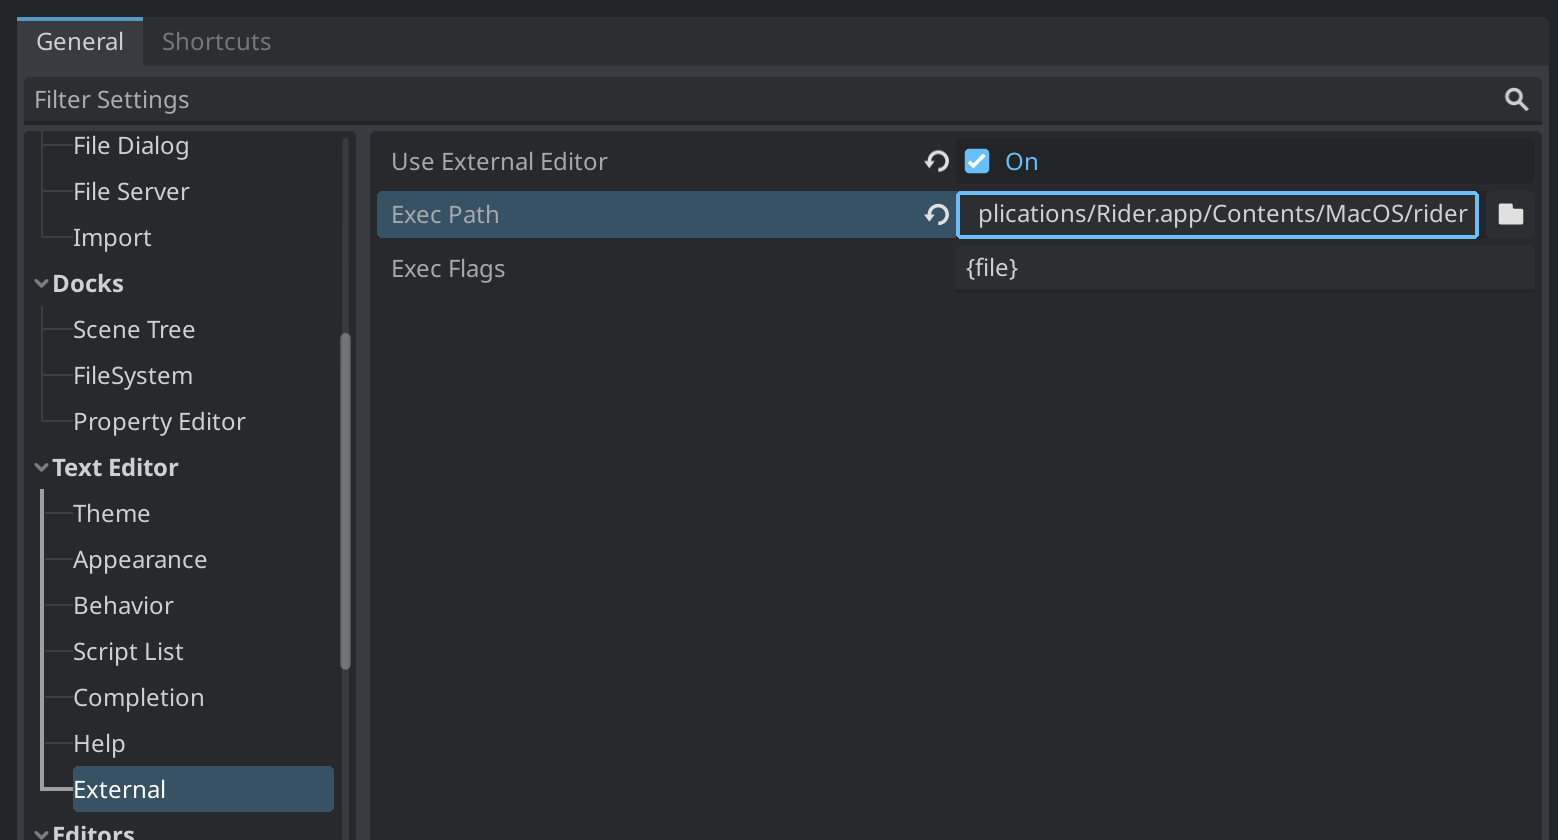
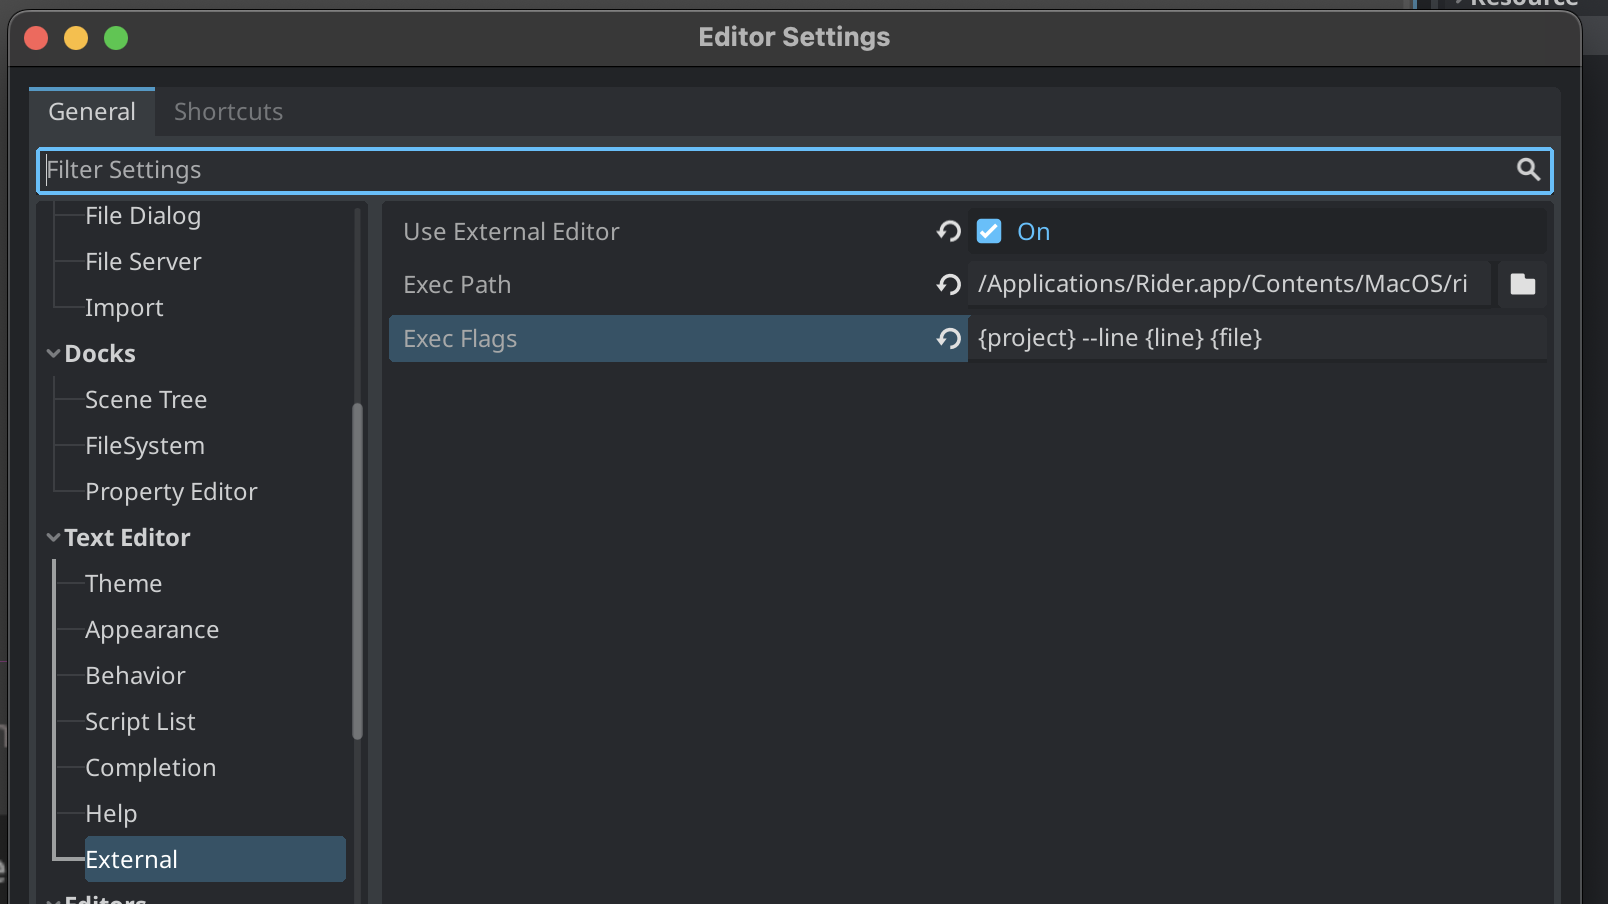
update post

Changed region(s): [[0.0, 0.0, 1.0, 1.0]]

diff --git a/_posts/2023-09-23-use-jetbrains-rider-as-default-code-editor-for-godot.md b/_posts/2023-09-23-use-jetbrains-rider-as-default-code-editor-for-godot.md
@@ -11,4 +11,12 @@ the documentation from Godot 4.1 isn't very clear - https://docs.godotengine.org
 Here's how to do it on the mac -
 Editor > Editor Settings > Text Editor > External
 
+See the Exec Path field - 
 ![Setting up Rider in Godot](/assets/images/godot-rider-config.png)
+
+you need to navigate to inside the Rider.app -> select Rider.app/Contents/MacOS/rider
+
+this only gets so far.  with this setting changed, double clicking a file in Godot will open the file in Rider, but it won't open the sln in rider.
+
+To have it auto-open the sln in rider, enter this in the Exec Flags field - 
+`{project} --line {line} {file}`
